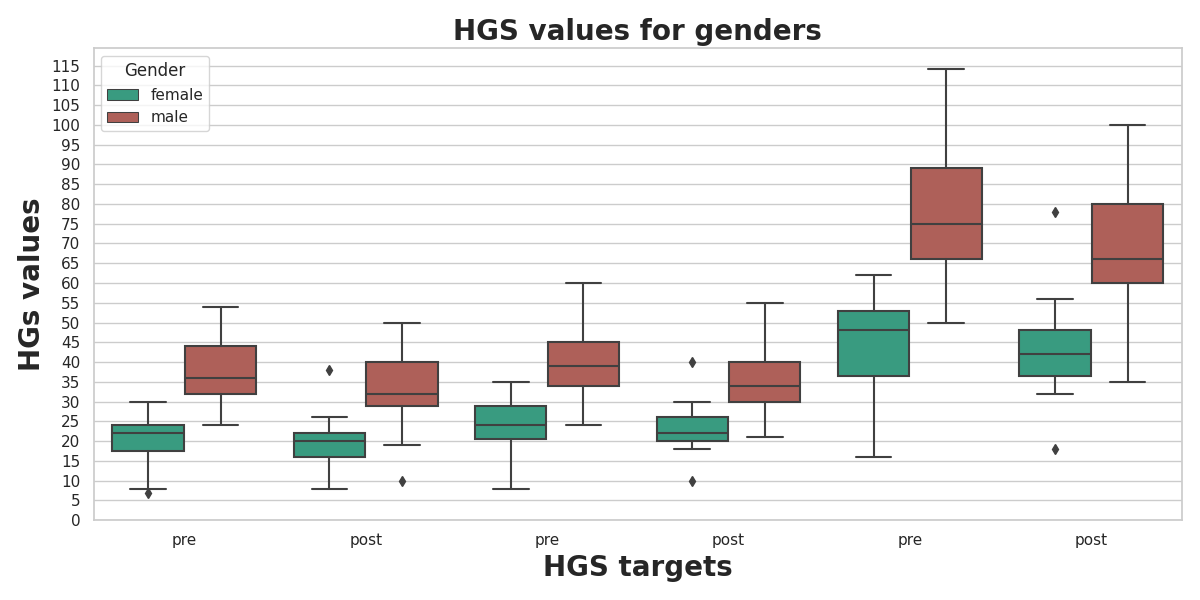
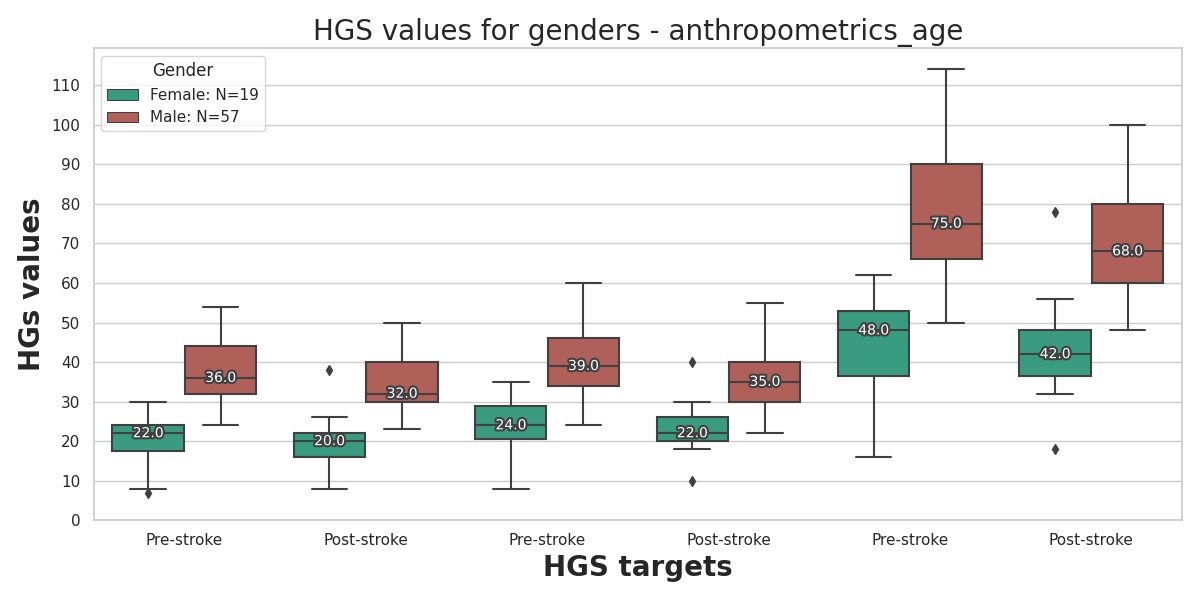
Modified langitudinal stroke hgs boxplots for each target

diff --git a/exec/plots/plot_data_distribution/stroke/hgs_data_distripution_boxplot/boxplots_hgs_pre-post_stroke_distribution.py b/exec/plots/plot_data_distribution/stroke/hgs_data_distripution_boxplot/boxplots_hgs_pre-post_stroke_distribution.py
@@ -3,7 +3,7 @@ import pandas as pd
 import numpy as np
 import seaborn as sns
 import matplotlib.pyplot as plt
-
+import matplotlib.patheffects as path_effects
 from hgsprediction.load_data import stroke_load_data
 
 from ptpython.repl import embed
@@ -14,6 +14,7 @@ filename = sys.argv[0]
 population = sys.argv[1]
 mri_status = sys.argv[2]
 visit_session = sys.argv[3]
+feature_type = sys.argv[4]
 
 stroke_cohort = "pre-post-stroke"
 if visit_session == "1":
@@ -25,9 +26,10 @@ elif visit_session == "3":
 elif visit_session == "4":
     session_column = f"4th_{stroke_cohort}_session"
 
+###############################################################################
 df = stroke_load_data.load_preprocessed_longitudinal_data(population, mri_status, session_column, "both_gender")
 
-
+###############################################################################
 # Assuming you have a DataFrame 'df' with the specified columns
 # Extract the relevant columns
 df_extract_columns_to_plot = df[["31-0.0", "1st_pre-stroke_hgs_left", "1st_post-stroke_hgs_left", "1st_pre-stroke_hgs_right", "1st_post-stroke_hgs_right", "1st_pre-stroke_hgs_L+R", "1st_post-stroke_hgs_L+R"]]
@@ -45,13 +47,13 @@ melted_dfs = []
 # Iterate through column groups and create melted DataFrames
 for group_name, group_columns in column_groups:
     # Melt the DataFrame for the current group
-    melted_group = pd.melt(df_extract_columns_to_plot, id_vars=["31-0.0"], value_vars=group_columns, var_name="variable")
+    melted_group = pd.melt(df_extract_columns_to_plot, id_vars=["31-0.0"], value_vars=group_columns, var_name="variable", ignore_index=False)
     
     # Create 'hgs_category' based on 'group_name'
     melted_group['hgs_category'] = group_name
     
     # Create 'stroke_cohort' based on 'variable'
-    melted_group['stroke_cohort'] = melted_group['variable'].apply(lambda x: 'pre' if 'pre' in x else ('post' if 'post' in x else None))
+    melted_group['stroke_cohort'] = melted_group['variable'].apply(lambda x: 'Pre-stroke' if 'pre' in x else ('Post-stroke' if 'post' in x else None))
     
     # Add a new column based on the combination of 'hgs_category' and 'stroke_cohort'
     melted_group['combine_hgs_stroke_cohort_category'] = group_name + '-' + melted_group['stroke_cohort']
@@ -65,11 +67,28 @@ for group_name, group_columns in column_groups:
     # Append the melted DataFrame to the list
     melted_dfs.append(melted_group)
 
-print(melted_dfs)
+# Concatenate the melted DataFrames into one without ignoring the original indexes
+melted_df = pd.concat(melted_dfs, ignore_index=False)
 
-print("===== Done! =====")
-embed(globals(), locals())
-
+print(melted_df)
+###############################################################################
+def add_median_labels(ax, fmt='.1f'):
+    lines = ax.get_lines()
+    boxes = [c for c in ax.get_children() if type(c).__name__ == 'PathPatch']
+    lines_per_box = int(len(lines) / len(boxes))
+    for median in lines[4:len(lines):lines_per_box]:
+        x, y = (data.mean() for data in median.get_data())
+        # choose value depending on horizontal or vertical plot orientation
+        value = x if (median.get_xdata()[1] - median.get_xdata()[0]) == 0 else y
+        text = ax.text(x, y, f'{value:{fmt}}', ha='center', va='center',  color='white', fontsize=10)
+                    #    fontweight='bold',
+        # create median-colored border around white text for contrast
+        text.set_path_effects([
+            path_effects.Stroke(linewidth=3, foreground=median.get_color()),
+            path_effects.Normal(),
+        ])
+        
+###############################################################################
 # Define a custom palette with two blue colors
 custom_palette = sns.color_palette(['#95CADB', '#008ECC'])  # You can use any hex color codes you prefer
 
@@ -77,61 +96,40 @@ custom_palette = sns.color_palette(['#95CADB', '#008ECC'])  # You can use any he
 plt.figure(figsize=(10, 6))  # Adjust the figure size if needed
 sns.set(style="whitegrid")
 # sns.set_context("poster", font_scale=1.25)
-ax = sns.boxplot(x="hgs_category", y="value", hue="stroke_cohort", data=final_df, palette=custom_palette)
+ax = sns.boxplot(x="hgs_category", y="value", hue="stroke_cohort", data=melted_df, palette=custom_palette)
 
 # Add labels and title
 plt.xlabel("HGS targets", fontsize=20, fontweight="bold")
 plt.ylabel("HGS values", fontsize=20, fontweight="bold")
-plt.title("pre-stroke and post-stroke HGS values", fontsize=20, fontweight="bold")
+plt.title(f"pre-stroke and post-stroke HGS values - {feature_type}", fontsize=20)
 
 ymin , ymax = ax.get_ylim()
 ystep = 10
 #set y-axis ticks (step size=5)
-plt.yticks(np.arange(0, 120, 5))
+plt.yticks(np.arange(0, 120, 10))
 # Show the plot
 plt.legend(title="stroke cohort", loc="upper left")  # Add legend
+legend = plt.legend(title="Gender", loc="upper left")  # Add legend
+# Modify individual legend labels
+legend.get_texts()[0].set_text(f"Pre-stroke: N={len(df)}")
+legend.get_texts()[1].set_text(f"Post-stroke: N={len(df)}")
+
 plt.tight_layout()
+
+add_median_labels(ax)
+
 plt.show()
 plt.savefig("hh.png")
-
-
-print("===== Done! =====")
-embed(globals(), locals())
-
-# Assuming you have a DataFrame 'df' with the specified columns
-# Extract the relevant columns
-df1 = df[["31-0.0", "1st_pre-stroke_hgs_left", "1st_post-stroke_hgs_left", "1st_pre-stroke_hgs_right", "1st_post-stroke_hgs_right", "1st_pre-stroke_hgs_L+R", "1st_post-stroke_hgs_L+R"]]
-
-# Melt the DataFrame with the specified categories
-melted_df = pd.melt(df1, id_vars=["31-0.0"], var_name="variable")
-
-# Create 'hgs_category' based on 'variable'
-melted_df['hgs_category'] = melted_df['variable'].apply(lambda x: 'left' if 'left' in x else ('right' if 'right' in x else 'L+R'))
-
-# Create 'stroke_cohort' based on 'variable'
-melted_df['stroke_cohort'] = melted_df['variable'].apply(lambda x: 'pre' if 'pre' in x else ('post' if 'post' in x else None))
-
-# Assuming you have a DataFrame 'melted_df' with 'hgs_category' and 'stroke_cohort' columns
-# Add a new column based on the combination of 'hgs_category' and 'stroke_cohort'
-melted_df['hgs_stroke_cohort_category'] = melted_df['hgs_category'] + '-' + melted_df['stroke_cohort']
-
-# Create 'gender' based on 'gender' column
-melted_df['gender'] = melted_df['31-0.0'].map({0: 'female', 1: 'male'})
-
-# Drop the original 'variable' column
-melted_df.drop(columns=['31-0.0'], inplace=True)
-
-# Print the melted DataFrame
-print(melted_df)
-
+plt.close()
+###############################################################################
 # Define a custom palette with two blue colors
 custom_palette = sns.color_palette(['#29AB87', '#BC544B'])  # You can use any hex color codes you prefer
 # Create the boxplot for 'hgs_category' and 'gender'
 plt.figure(figsize=(12, 6))
 sns.set(style="whitegrid")
-sns.boxplot(x="hgs_stroke_cohort_category", y="value", data=melted_df, hue="gender", palette=custom_palette)
+ax = sns.boxplot(x="combine_hgs_stroke_cohort_category", y="value", data=melted_df, hue="gender", palette=custom_palette)
 
-plt.yticks(np.arange(0, 120, 5))
+plt.yticks(np.arange(0, 120, 10))
 # # Extract unique values of 'hgs_category' and 'stroke_cohort'
 unique_hgs_categories = melted_df["hgs_category"].unique()
 unique_stroke_cohorts = melted_df["stroke_cohort"].unique()
@@ -141,15 +139,27 @@ xticks_labels = [f"{cohort}" for hgs_category in unique_hgs_categories for cohor
 # Set xtick positions and labels
 plt.xticks(range(len(xticks_labels)), xticks_labels)
 
-
 # Add labels and title
 plt.xlabel("HGS targets", fontsize=20, fontweight="bold")
 plt.ylabel("HGs values", fontsize=20, fontweight="bold")
-plt.title("HGS values for genders", fontsize=20, fontweight="bold")
-plt.legend(title="Gender", loc="upper left")  # Add legend
+plt.title(f"HGS values for genders - {feature_type}", fontsize=20)
+legend = plt.legend(title="Gender", loc="upper left")  # Add legend
+# Modify individual legend labels
+legend.get_texts()[0].set_text(f"Female: N={len(df[df['31-0.0']==0.0])}")
+legend.get_texts()[1].set_text(f"Male: N={len(df[df['31-0.0']==1.0])}")
 
 # Show the plot
 plt.tight_layout()
+
+add_median_labels(ax)
+
 plt.show()
 plt.savefig("hhfm.png")
+plt.close()
+
+
+
+print("===== Done! =====")
+embed(globals(), locals())
+
 

diff --git a/exec/2_preprocess_data/stroke/6_run_stroke_extract_longitudinal_preprocessed_data.py b/exec/2_preprocess_data/stroke/6_run_stroke_extract_longitudinal_preprocessed_data.py
@@ -3,6 +3,8 @@ import os
 import pandas as pd
 from hgsprediction.load_data import stroke_load_data
 from hgsprediction.save_data import stroke_save_data
+from hgsprediction.define_features import define_features
+
 
 from ptpython.repl import embed
 # print("===== Done! =====")
@@ -12,10 +14,13 @@ filename = sys.argv[0]
 population = sys.argv[1]
 mri_status = sys.argv[2]
 stroke_cohort = sys.argv[3]
-visit_session = sys.argv[4]
+feature_type = sys.argv[4]
+visit_session = sys.argv[5]
 
 ###############################################################################
 df_main_preprocessed_longitudinal = stroke_load_data.load_main_preprocessed_data(population, mri_status, stroke_group="only_longitudinal-stroke")
+features = define_features(feature_type)
+
 ###############################################################################
 stroke_cohort = "pre-stroke"
 if visit_session == "1":
@@ -41,6 +46,14 @@ df_post = stroke_load_data.load_preprocessed_data(population, mri_status, sessio
 merged_df = pd.concat([df_pre, df_post], axis=1, join="inner")
 # Select which columns to keep (for example, keep columns from df_pre)
 df = merged_df.loc[:, ~merged_df.columns.duplicated()]
+###############################################################################
+features_columns = [col for col in df.columns if any(col.endswith(item) for item in features)]
+extracted_df1 = df[features_columns].copy()
+extracted_df = extracted_df1.dropna(subset=[col for col in df.columns if any(item in col for item in features)])
+
+df = df[df.index.isin(extracted_df.index)]
+print("===== Done! =====")
+embed(globals(), locals())
 ###############################################################################
 if len(df) > 0:
     df_female = df[df["31-0.0"]==0.0]
